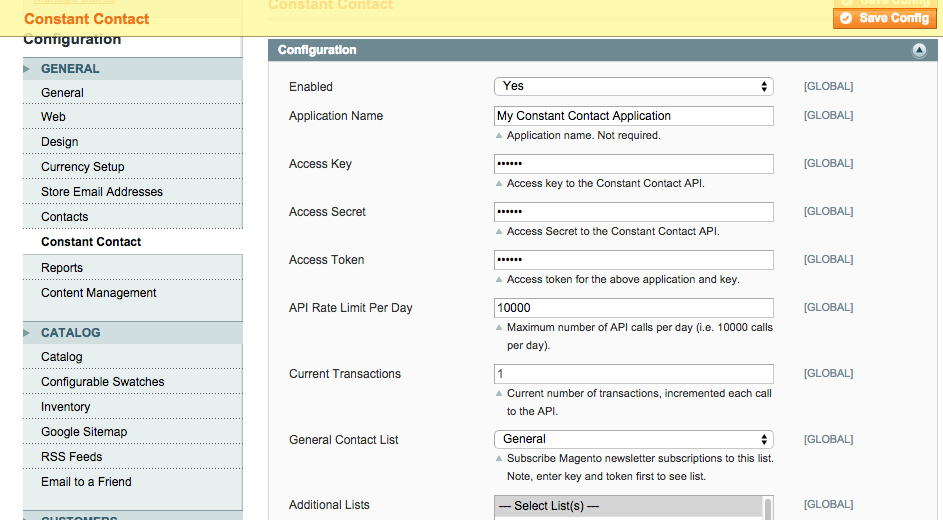
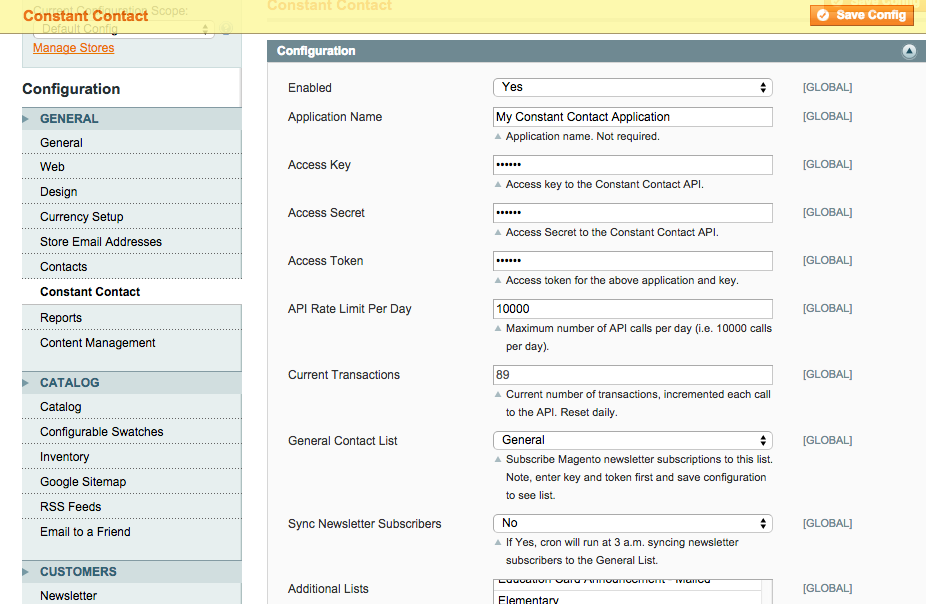
Added customer ability to subscribe in customer dash

diff --git a/app/code/community/Aydus/ConstantContact/Model/Constantcontact.php b/app/code/community/Aydus/ConstantContact/Model/Constantcontact.php
@@ -91,7 +91,7 @@ class Aydus_ConstantContact_Model_Constantcontact extends Mage_Core_Model_Abstra
         
         return $ready;
     }
-    
+        
     /**
      * Get all lists from API
      * @return array
@@ -134,7 +134,7 @@ class Aydus_ConstantContact_Model_Constantcontact extends Mage_Core_Model_Abstra
     /**
      * Get selected lists from configuration
      */
-    public function getLists()
+    public function getLists($general = true)
     {
         if( !$this->_lists){
         
@@ -142,11 +142,21 @@ class Aydus_ConstantContact_Model_Constantcontact extends Mage_Core_Model_Abstra
             
             if (is_array($lists) && count($lists) > 0){
                 
-                $validListIds = Mage::helper('aydus_constantcontact')->getValidListIds();
+                $helper = Mage::helper('aydus_constantcontact');
+                $validListIds = $helper->getValidListIds();
+                
+                if (!$general){
+                    $generalListId = $helper->getGeneralListId();
+                    $key = array_search($generalListId, $validListIds);
+                    unset($validListIds[$key]);
+                }
                 
                 foreach ($lists as $list){
                 
                     if (in_array($list->id, $validListIds)){
+                        
+                        $list->isSubscribed = $this->getIsSubscribed($list->id);
+                        
                         $this->_lists[] = $list;
                 
                     }
@@ -158,6 +168,34 @@ class Aydus_ConstantContact_Model_Constantcontact extends Mage_Core_Model_Abstra
         }   
         
         return $this->_lists;
+    }
+    
+    /**
+     * Check if current customer is subscribed to list
+     * 
+     * @param int $listId
+     * @return boolean
+     */
+    public function getIsSubscribed($listId)
+    {
+        $customer = Mage::getSingleton('customer/session')->getCustomer();
+        $customerId = $customer->getId();
+        
+        if ($customerId){
+            
+            $customerList = Mage::getModel('aydus_constantcontact/customerlist');
+            $collection = $customerList->getCollection();
+            $collection->addFieldToFilter('customer_id',$customerId);
+            $collection->addFieldToFilter('list_id',$listId);
+                        
+            if ($collection->getSize() > 0){
+                
+                return true;
+            }
+            
+        }
+        
+        return false;
     }
     
     /**
@@ -199,6 +237,7 @@ class Aydus_ConstantContact_Model_Constantcontact extends Mage_Core_Model_Abstra
                 $subscriberId = $subscriber->getId();
                 $customerId = $subscriber->getCustomerId();
                 $subscriberEmail = $subscriber->getSubscriberEmail();
+                $contactId = $this->getContactId($subscriber);
                 
                 if ($customerId){
                 
@@ -225,39 +264,42 @@ class Aydus_ConstantContact_Model_Constantcontact extends Mage_Core_Model_Abstra
                     $result = $this->addUpdateContact($data);
                 
                 } else if ($subscriber->getSubscriberStatus() == 3){
-                
-                    if ($customerId && $customer->getId()){
-                
-                        $contactId = $customer->getContactId();
-                
-                        if (!$contactId){
-                
-                            $subscriberContact = Mage::getSingleton('aydus_constantcontact/subscribercontact');
-                            $subscriberContact->load($subscriberId, 'subscriber_id');
-                            $contactId = $subscriberContact->getContactId();
-                        }
-                
-                    }
-                
-                    //get from CC
-                    if (!$contactId){
-                        $contact = $this->getContactByEmail($subscriberEmail);
-                        if ($contact && $contact->id){
-                            $contactId = $contact->id;
-                        }
-                    }
-                
+                 
                     if ($contactId){
                 
                         $result = $this->unsubscribe($contactId, $listId, $subscriberId, $customerId);
                     }
+                }
                 
+                //additional lists
+                $lists = $this->getLists(false);
+                
+                if ($contactId && is_array($lists) && count($lists)>0){
+                    
+                    $subscribeLists = (array)Mage::app()->getRequest()->getParam('subscribed_lists');
+                    $helper = Mage::helper('aydus_constantcontact');
+                    
+                    foreach ($lists as $list){
+                        
+                        $listId = $list->id;
+                        
+                        if (in_array($listId, array_keys($subscribeLists))){
+                        
+                            $this->subscribe($contactId, $listId, $subscriberId, $customerId);
+                        
+                        } else {
+                        
+                            $this->unsubscribe($contactId, $listId, $subscriberId, $customerId);
+                        
+                        }                            
+                        
+                    }
+              
                 }
                                 
             }catch (Exception $e){
                 Mage::log($e->getMessage(),null,'aydus_constantcontact.log');
             }
-    
     
         } else {
     
@@ -266,7 +308,49 @@ class Aydus_ConstantContact_Model_Constantcontact extends Mage_Core_Model_Abstra
         }
     
         return $result;
-    }    
+    } 
+
+    /**
+     * Get contact id 
+     * 
+     * @param Mage_Newsletter_Model_Subscriber $subscriber
+     * @return int
+     */
+    public function getContactId($subscriber)
+    {
+        $subscriberId = $subscriber->getId();
+        $customerId = $subscriber->getCustomerId();
+        $subscriberEmail = $subscriber->getSubscriberEmail();
+        
+        if ($customerId){
+        
+            $customer = Mage::getModel('customer/customer');
+            $customer->load($customerId);
+        }        
+        
+        if ($customerId && $customer->getId()){
+        
+            $contactId = $customer->getContactId();
+        
+            if (!$contactId){
+        
+                $subscriberContact = Mage::getSingleton('aydus_constantcontact/subscribercontact');
+                $subscriberContact->load($subscriberId, 'subscriber_id');
+                $contactId = $subscriberContact->getContactId();
+            }
+        
+        }
+        
+        //get from CC
+        if (!$contactId){
+            $contact = $this->getContactByEmail($subscriberEmail);
+            if ($contact && isset($contact->id)){
+                $contactId = $contact->id;
+            }
+        }        
+        
+        return $contactId;
+    }
     
     /**
      *  Synchronized Newsletter Subscribers with General List

diff --git a/app/code/community/Aydus/ConstantContact/Block/Adminhtml/System/Config/Form/Field/Currenttransactions.php b/app/code/community/Aydus/ConstantContact/Block/Adminhtml/System/Config/Form/Field/Currenttransactions.php
@@ -14,7 +14,7 @@ class Aydus_ConstantContact_Block_Adminhtml_System_Config_Form_Field_Currenttran
      * (non-PHPdoc)
      * @see Mage_Adminhtml_Block_System_Config_Form_Field::_getElementHtml()
      */
-    protected function _getElementHtml($element) 
+    protected function _getElementHtml(Varien_Data_Form_Element_Abstract $element) 
     {
         $element->setReadonly(true, true);
         $currentTransactions = (int)Mage::helper('aydus_constantcontact')->getCurrentTransactions();

diff --git a/README.md b/README.md
@@ -5,31 +5,15 @@ Add Magento users to Constant Contact contacts and lists.
 Description
 -----------
 Add Magento users to Constant Contact contacts and lists. Users
-can subscribe to lists by submitting a form on this page:
+can subscribe to lists by subscribing to the Magento newsletter. 
+Additionally, by submitting a form on this page:
 
 /constantcontact/form/subscribe
 
 <img src="md/subscribe.png" />
 
-or by subscribing to the Magento newsletter.
-
 Installation Instructions
 -------------------------
-
-Requires the Constant Contact PHP-SDK: https://github.com/constantcontact/php-sdk. 
-You will need to install composer to install the SDK. Composer will place the SDK 
-and autoload.php under the vendor/constantcontact. 
-
-<pre>
-    {
-        "require": {
-            "constantcontact/constantcontact": "2.0.*"
-        }
-    }
-</pre>
-
-This extension requires vendor/autoload.php to be in your Magento site's include path. 
-Without the SDK, this extension WILL NOT work.
 
 Upload this module's files to root of your 
 Magento install. Let the setup script run. After the setup is completed, several new 

diff --git a/app/code/community/Aydus/ConstantContact/readme.md b/app/code/community/Aydus/ConstantContact/readme.md
@@ -1,0 +1,5 @@
+Constant Contact
+===============
+Add Magento users to Constant Contact contacts and lists.
+
+https://github.com/aydus/ConstantContact
